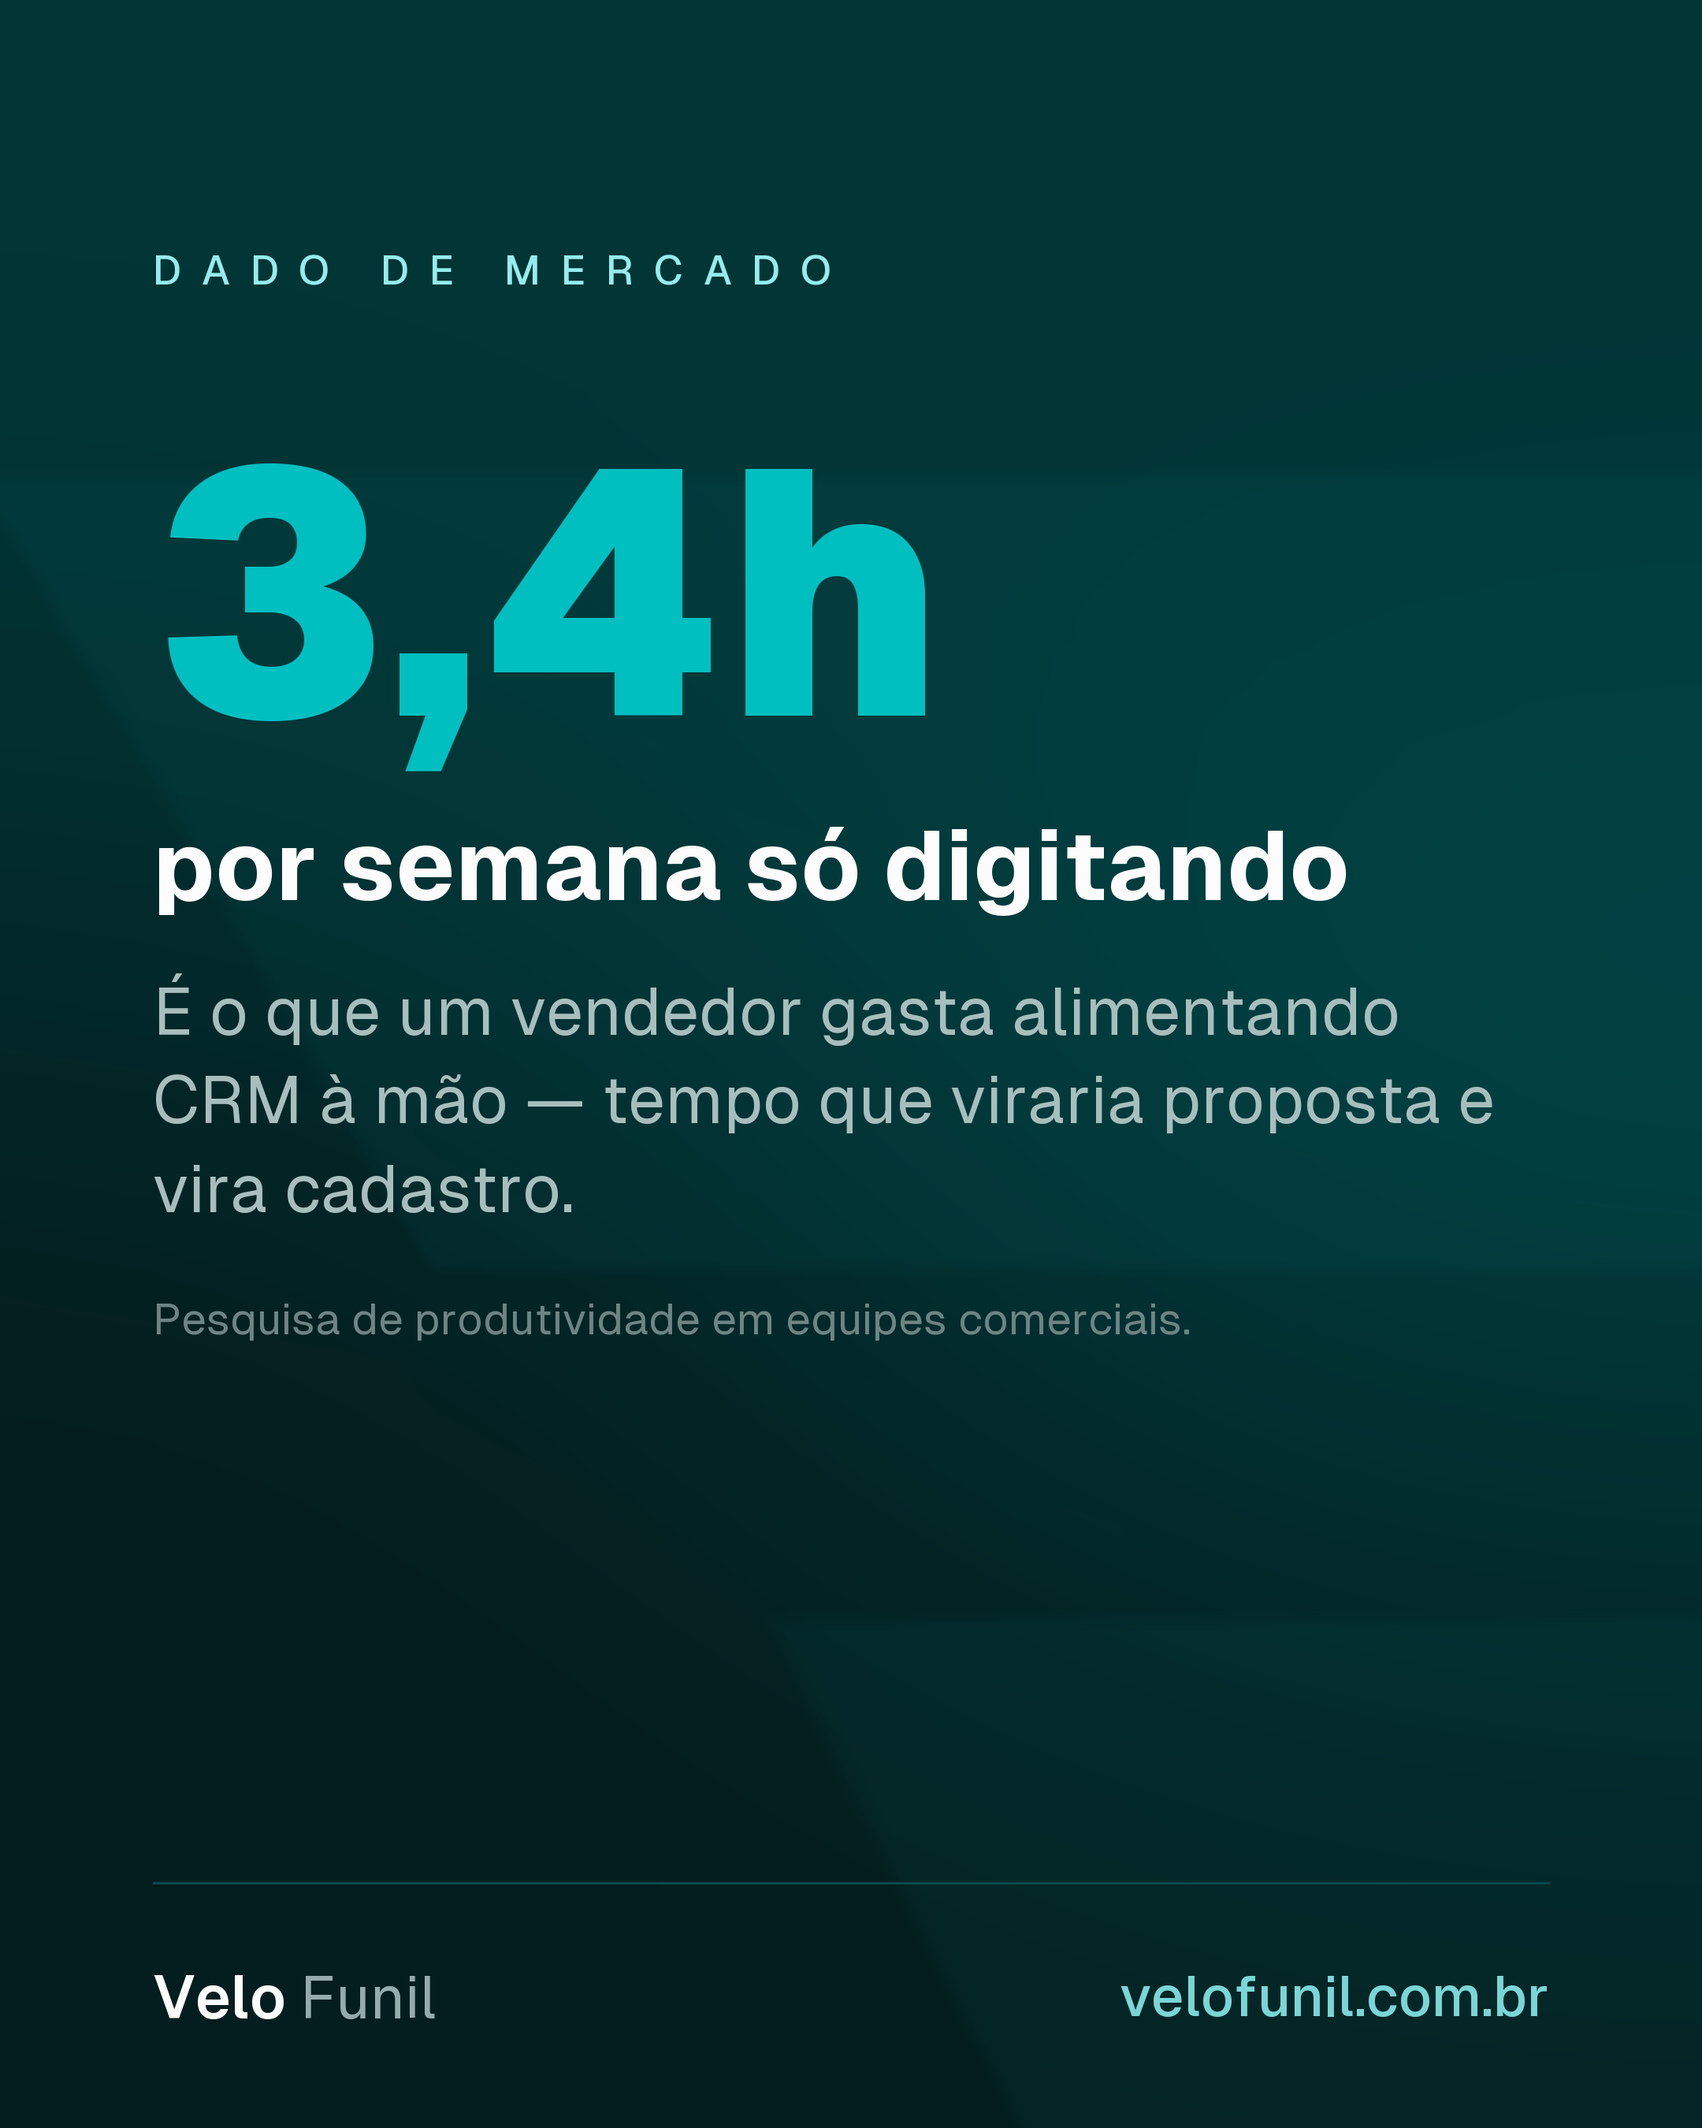
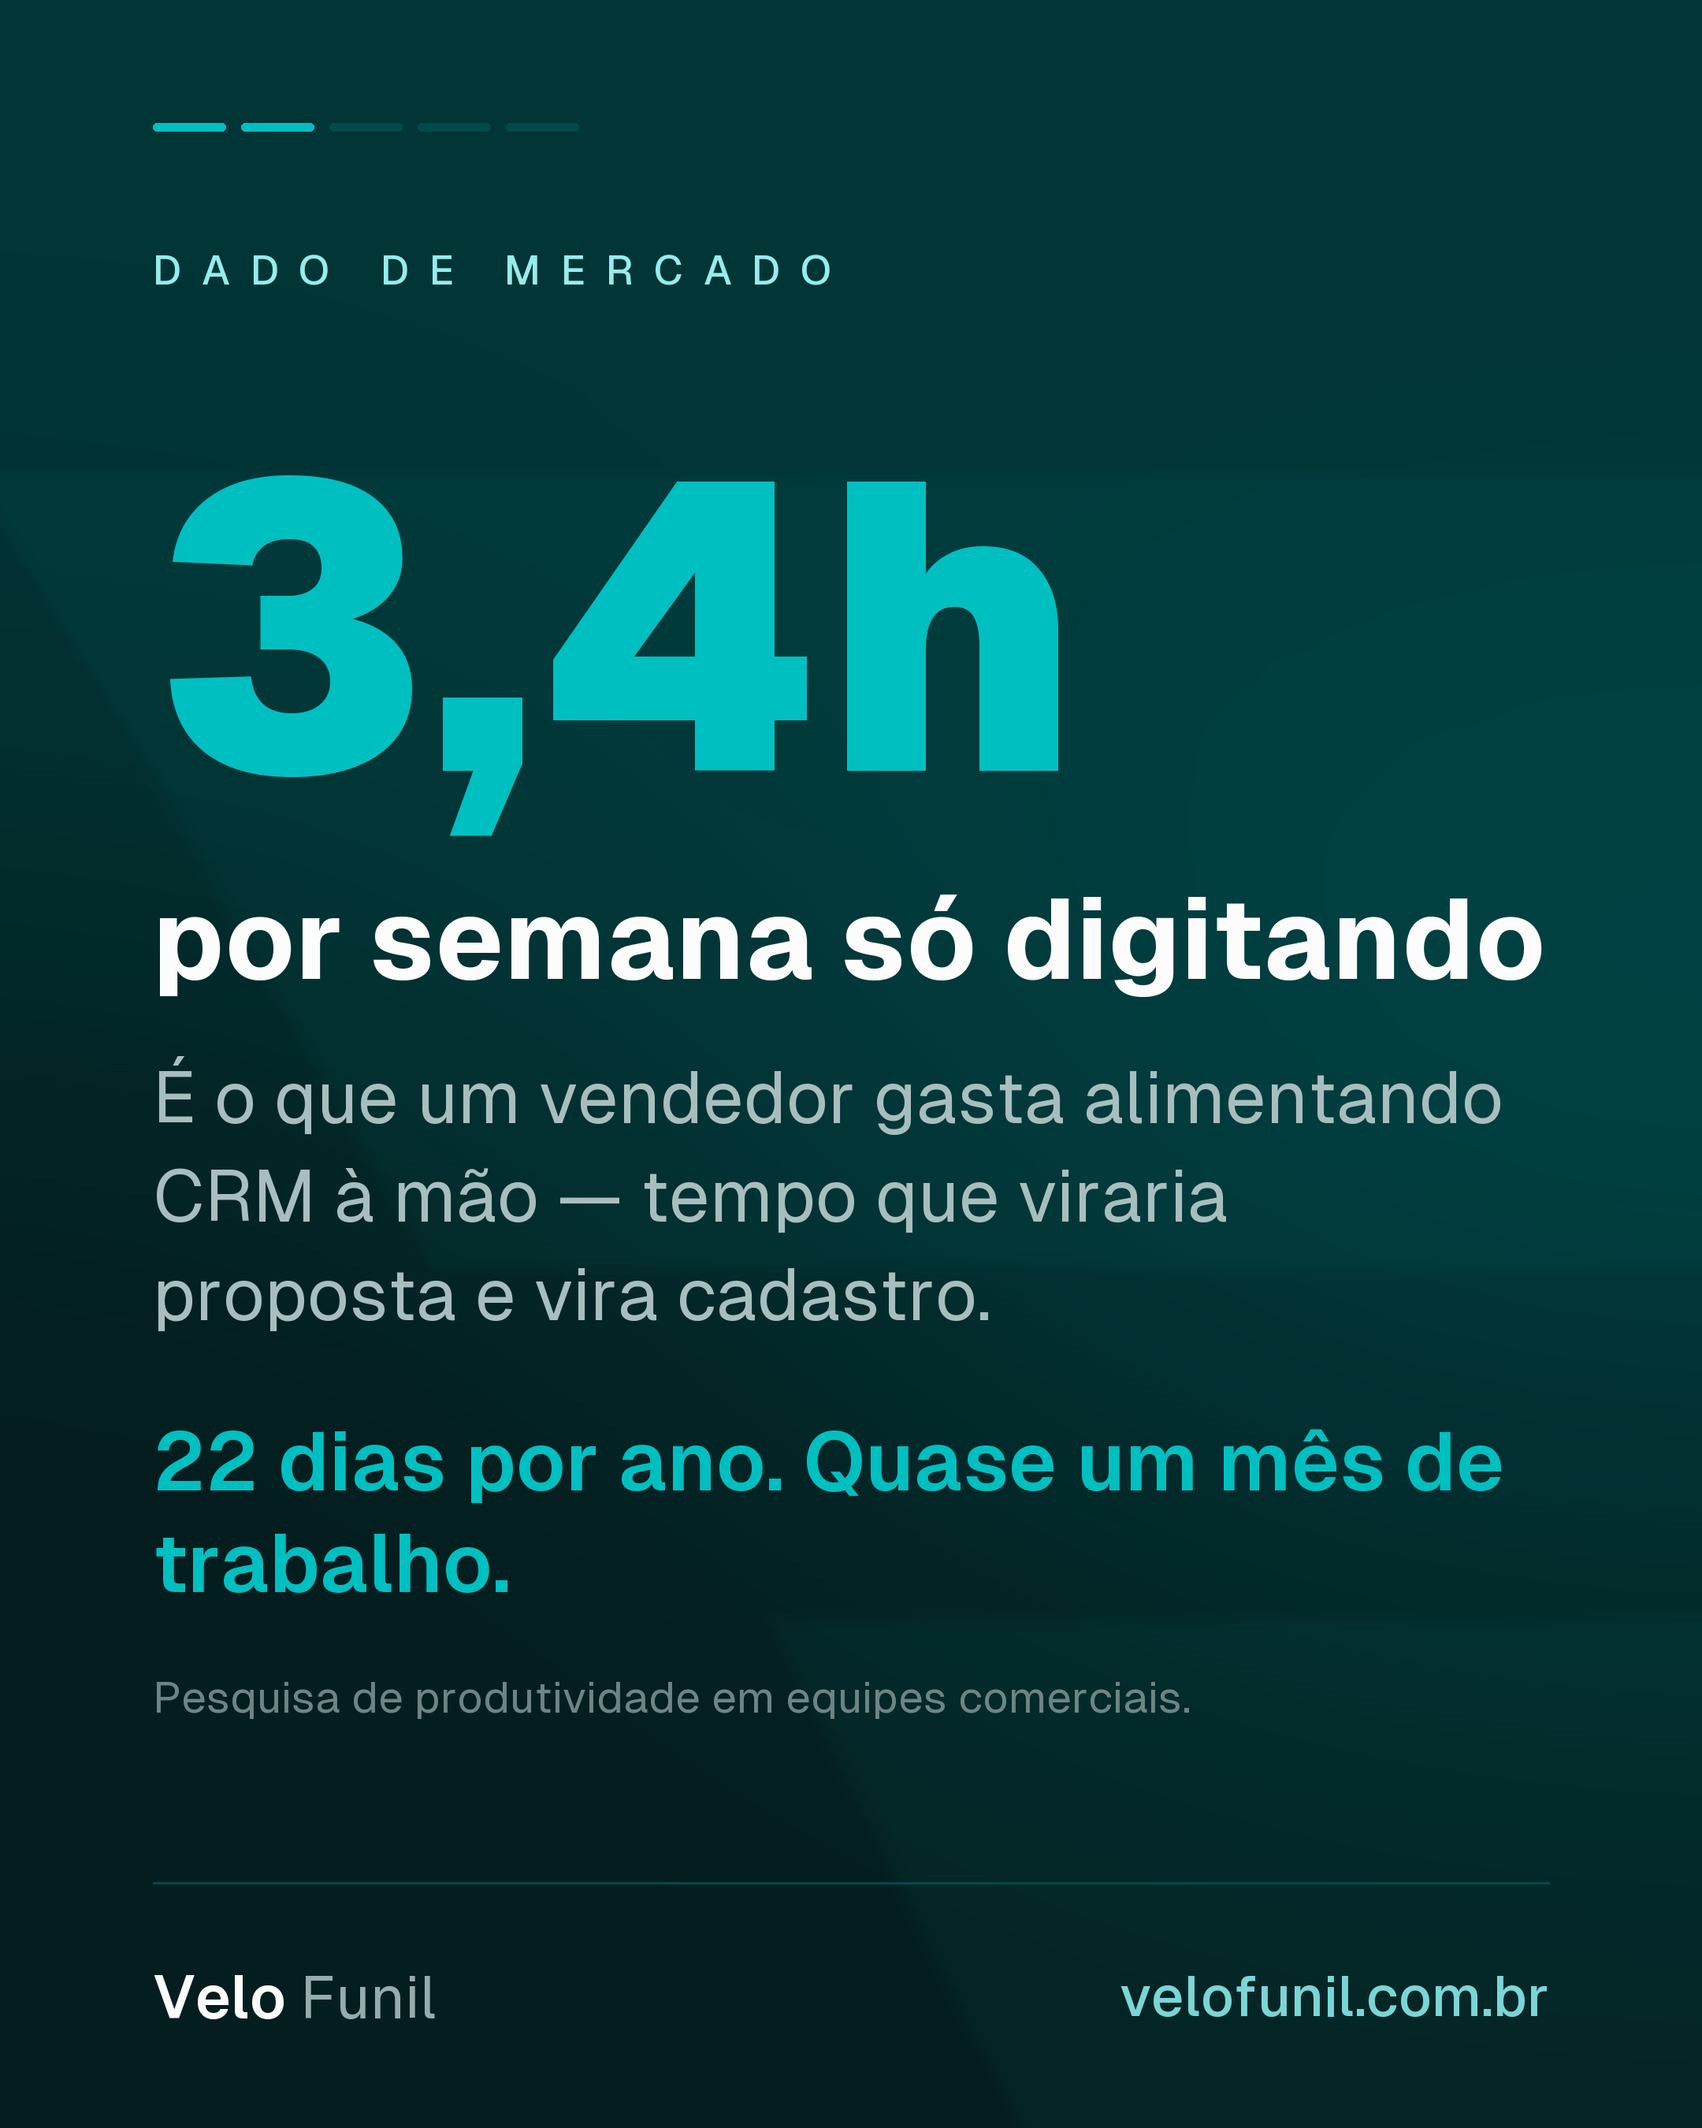
feat(marketing): o carrossel deixa de ser cinco vezes o mesmo card
Reportado como genérico, e era. Auditado com a skill de design do projeto e
com medição das artes prontas.

## O diagnóstico

    os 5 cards    estrutura IDENTICA — numero, titulo, texto, rodape
    "55%"         escrito, e nada MOSTRAVA o que era 55%
    sem progresso o leitor nao sabia se faltava 1 card ou 4
    ~35% vazio    todo o conteudo no terco superior

Competente e monótono. A skill nomeia o padrão certo — storytelling em
capítulos — e capítulos idênticos não contam história.

## O que entrou

**Marcador de passo**, traços no topo. Carrossel sem isso é leitura no escuro:
a decisão de continuar deslizando é tomada sem saber quanto falta. Traço e não
ponto porque traço tem direção, e direção comunica "isto avança".

**Barra de proporção** no card de 55%. Número escrito é símbolo — o olho lê e
segue. Barra em que mais da metade está acesa faz VER a proporção antes de ler
qualquer palavra. Barra e não pizza: é o que a skill recomenda para
part-to-whole, e num criativo lido em dois segundos o comprimento é a única
grandeza que se entende sem legenda.

**Escala tipográfica maior.** Conteúdo passou de ~65% para 89% da altura.

## O erro que a medição pegou, e é o mais instrutivo

A barra entrou primeiro TAMBÉM no card de 3,4h, ancorada numa semana de 40h.
Aberta a arte e olhada: 8,5% desenha uma barra quase vazia, e o olho conclui
"é pouco" — o contrário exato do que a frase diz.

Proporção só é argumento quando a parte é grande diante do todo. Ali o
[…]

diff --git a/scripts/marketing/gerar-feed.py b/scripts/marketing/gerar-feed.py
@@ -211,7 +211,82 @@ def arte_declaracao(categoria, titulo, corpo, arquivo, luz, remate=None):
 # rodapé, e não apenas o último.
 
 
-def _peca(luz, escuro_extra, bloco):
+def barra_de_proporcao(draw, y, parte, total, rotulo_parte, rotulo_resto, largura=None):
+    """
+    Mostra o dado em vez de só escrevê-lo.
+
+    ## Por que uma barra, e não pizza
+
+    A skill de design deste projeto é explícita: para part-to-whole, barra
+    empilhada com legenda; pizza é ruim de acessibilidade e pior de comparar.
+    Aqui o argumento é ainda mais simples — num criativo lido em dois segundos,
+    a barra é a única forma que se entende sem legenda, porque o comprimento é
+    a grandeza.
+
+    ## O que ela resolve
+
+    "55%" escrito é um símbolo: o olho lê o número e segue. Uma barra em que
+    mais da metade está acesa faz o leitor VER a proporção antes de ler
+    qualquer palavra — e é isso que separa um dado de uma afirmação.
+
+    O trecho apagado usa a cor de borda do sistema em vez de um cinza novo: o
+    resto não é "vazio", é a parte que não aconteceu, e precisa existir na
+    composição para o cheio significar alguma coisa.
+    """
+    if largura is None:
+        largura = g.LARGURA_TEXTO
+
+    altura = 22 * g.ESCALA
+    raio = altura // 2
+    fim_parte = g.MARGEM_ESQ + int(largura * parte / total)
+
+    # O trilho inteiro primeiro, depois a parte acesa por cima: desenhar dois
+    # retângulos lado a lado deixaria uma junta visível no arredondamento.
+    draw.rounded_rectangle(
+        [g.MARGEM_ESQ, y, g.MARGEM_ESQ + largura, y + altura],
+        radius=raio, fill=(0, 74, 76),
+    )
+    draw.rounded_rectangle(
+        [g.MARGEM_ESQ, y, fim_parte, y + altura], radius=raio, fill=g.TEAL,
+    )
+
+    y += altura + 20 * g.ESCALA
+    fnt = g.fonte(g.CORPO, 30)
+
+    draw.text((g.MARGEM_ESQ, y), rotulo_parte, font=fnt, fill=g.TEAL)
+    largura_resto = draw.textlength(rotulo_resto, font=fnt)
+    draw.text((g.MARGEM_ESQ + largura - largura_resto, y), rotulo_resto,
+              font=fnt, fill=(110, 132, 132))
+
+    return y + fnt.size * 1.3
+
+
+def marcador_de_passo(draw, atual, total):
+    """
+    Onde a pessoa está na sequência, no topo.
+
+    Carrossel sem isso é leitura no escuro: não se sabe se falta um card ou
+    quatro, e a decisão de continuar deslizando é tomada sem informação. Os
+    pontinhos nativos do Instagram ficam FORA da arte, minúsculos e no rodapé
+    da tela — servem ao aplicativo, não à peça.
+
+    Traços e não pontos: traço tem direção, e direção é o que comunica "isto
+    avança". Ponto comunica lista, que é outra coisa.
+    """
+    largura, altura, folga = 46 * g.ESCALA, 5 * g.ESCALA, 10 * g.ESCALA
+    y = int(g.H * 0.058)
+    x = g.MARGEM_ESQ
+
+    for i in range(1, total + 1):
+        aceso = i <= atual
+        draw.rounded_rectangle(
+            [x, y, x + largura, y + altura], radius=altura // 2,
+            fill=g.TEAL if aceso else (0, 74, 76),
+        )
+        x += largura + folga
+
+
+def _peca(luz, escuro_extra, bloco, passo=None):
     """
     Fundo, posicionamento, assinatura. O miolo vem de fora.
 
@@ -239,12 +314,14 @@ def _peca(luz, escuro_extra, bloco):
     img = g.fundo_marca(escuro_extra=escuro_extra)
     draw = ImageDraw.Draw(img)
     topo, _base = g.faixa_livre()
+    if passo:
+        marcador_de_passo(draw, *passo)
     bloco(draw, topo)
     g.assinar_discreto(img, draw)
     return img
 
 
-def card_gancho(partes, apoio, luz):
+def card_gancho(partes, apoio, luz, passo=None):
     """
     O primeiro card: uma pergunta, com a palavra que dói em itálico serifado.
 
@@ -261,39 +338,53 @@ def card_gancho(partes, apoio, luz):
     """
     def bloco(d, y):
         y = g.escrever_com_realce(
-            d, partes, g.fonte(g.TITULO, 84), g.italica(96),
+            d, partes, g.fonte(g.TITULO, 94), g.italica(108),
             y, g.BRANCO, g.TEAL, entrelinha=1.18,
         )
         if apoio:
             y += 40 * g.ESCALA
-            y = g.escrever_esq(d, apoio, g.fonte(g.CORPO, 44), y, (168, 190, 190),
-                               entrelinha=1.34)
+            y = g.escrever_esq(d, apoio, g.fonte(g.CORPO, 48), y, (168, 190, 190),
+                               entrelinha=1.36)
         return y
 
-    return _peca(luz, 0.12, bloco)
+    return _peca(luz, 0.12, bloco, passo)
 
 
-def card_dado(numero, unidade, explicacao, fonte_dado, categoria, luz):
+def card_dado(numero, unidade, explicacao, fonte_dado, categoria, luz, passo=None,
+              proporcao=None, remate=None):
     """O card de prova. Mesmo esqueleto de `arte_numero`, sem salvar."""
-    fnt_num = g.fonte(g.DISPLAY, 220)
+    fnt_num = g.fonte(g.DISPLAY, 258)
 
     def bloco(d, y):
         y = capsula_vazia(d, categoria, y) + 50 * g.ESCALA
         d.text((g.MARGEM_ESQ, y), numero, font=fnt_num, fill=g.TEAL)
         _, _, _, fim = d.textbbox((g.MARGEM_ESQ, y), numero, font=fnt_num)
         y = fim + 24 * g.ESCALA
-        y = g.escrever_esq(d, unidade, g.fonte(g.TITULO, 62), y, g.BRANCO)
+        y = g.escrever_esq(d, unidade, g.fonte(g.TITULO, 72), y, g.BRANCO)
         y += 32 * g.ESCALA
-        y = g.escrever_esq(d, explicacao, g.fonte(g.CORPO, 42), y, (168, 190, 190),
-                           entrelinha=1.34)
+        y = g.escrever_esq(d, explicacao, g.fonte(g.CORPO, 46), y, (168, 190, 190),
+                           entrelinha=1.36)
+        # A barra entra ENTRE a explicação e a fonte, não no fim: ela é parte
+        # do argumento, e a fonte é o rodapé dele. Invertido, o crédito
+        # separaria o dado da sua própria ilustração.
+        if proporcao:
+            y += 40 * g.ESCALA
+            y = barra_de_proporcao(d, y, *proporcao)
+        # O remate é a conclusão que o número não diz sozinho. Em teal e peso
+        # forte porque é a frase que a pessoa deve levar embora — o dado é a
+        # prova, isto é o argumento.
+        if remate:
+            y += 40 * g.ESCALA
+            y = g.escrever_esq(d, remate, g.fonte(g.FORTE, 52), y, g.TEAL,
+                               entrelinha=1.24)
         y += 34 * g.ESCALA
         return g.escrever_esq(d, fonte_dado, g.fonte(g.CORPO, 28), y, (110, 132, 132),
                               entrelinha=1.26)
 
-    return _peca(luz, 0.15, bloco)
+    return _peca(luz, 0.15, bloco, passo)
 
 
-def card_causa(titulo, corpo, luz):
+def card_causa(titulo, corpo, luz, passo=None):
     """
     O card que explica. Só tipografia, corpo grande.
 
@@ -301,15 +392,15 @@ def card_causa(titulo, corpo, luz):
     prova, é conclusão.
     """
     def bloco(d, y):
-        y = g.escrever_esq(d, titulo, g.fonte(g.TITULO, 76), y, g.BRANCO, entrelinha=1.18)
+        y = g.escrever_esq(d, titulo, g.fonte(g.TITULO, 86), y, g.BRANCO, entrelinha=1.18)
         y += 32 * g.ESCALA
-        return g.escrever_esq(d, corpo, g.fonte(g.CORPO, 44), y, (168, 190, 190),
-                              entrelinha=1.34)
+        return g.escrever_esq(d, corpo, g.fonte(g.CORPO, 48), y, (168, 190, 190),
+                              entrelinha=1.38)
 
-    return _peca(luz, 0.10, bloco)
+    return _peca(luz, 0.10, bloco, passo)
 
 
-def card_cta(chamada, apoio, luz):
+def card_cta(chamada, apoio, luz, passo=None):
     """
     O último card: o que fazer, e onde.
 
@@ -321,16 +412,16 @@ def card_cta(chamada, apoio, luz):
     "Link na bio" logo abaixo porque o botão não é clicável, e o Instagram não
     dá link em post de feed. Sem essa linha, a peça pede uma ação impossível.
     """
-    fnt_ch = g.fonte(g.TITULO, 76)
+    fnt_ch = g.fonte(g.TITULO, 86)
     fnt_bt = g.fonte(g.FORTE, 44)
     rotulo = "Comece grátis"
 
     def bloco(d, y):
         y = g.escrever_esq(d, chamada, fnt_ch, y, g.BRANCO, entrelinha=1.18)
         y += 30 * g.ESCALA
-        y = g.escrever_esq(d, apoio, g.fonte(g.CORPO, 44), y, (168, 190, 190),
-                           entrelinha=1.34)
-        y += 56 * g.ESCALA
+        y = g.escrever_esq(d, apoio, g.fonte(g.CORPO, 48), y, (168, 190, 190),
+                           entrelinha=1.36)
+        y += 64 * g.ESCALA
 
         pad_x, pad_y = 52 * g.ESCALA, 30 * g.ESCALA
         larg = d.textlength(rotulo, font=fnt_bt) + pad_x * 2
@@ -344,7 +435,7 @@ def card_cta(chamada, apoio, luz):
         return g.escrever_esq(d, "Link na bio", g.fonte(g.CORPO, 34), y,
                               (122, 214, 214))
 
-    return _peca(luz, 0.18, bloco)
+    return _peca(luz, 0.18, bloco, passo)
 
 
 def carrossel(nome, cards):
@@ -485,34 +576,47 @@ def main():
             [("Você comprou um CRM. Quem ", False), ("alimenta", True),
              (" ele?", False)],
             "Ninguém vende a parte chata na hora da contratação.",
-            luz=0.16,
+            luz=0.16, passo=(1, 5),
         ),
         card_dado(
             "3,4h", "por semana só digitando",
             "É o que um vendedor gasta alimentando CRM à mão — tempo que "
             "viraria proposta e vira cadastro.",
             "Pesquisa de produtividade em equipes comerciais.",
-            "D A D O   D E   M E R C A D O", luz=0.28,
+            "D A D O   D E   M E R C A D O", luz=0.28, passo=(2, 5),
+            # ## Por que este card NÃO leva barra de proporção
+            #
+            # A primeira versão tinha `proporcao=(3.4, 40, ...)`, ancorando as
+            # 3,4h numa semana de 40h. Aberta a arte e olhada: 8,5% desenha uma
+            # barra quase vazia, e o olho conclui "é pouco" — o contrário
+            # exato do que a frase diz.
+            #
+            # Proporção só é argumento quando a parte é grande em relação ao
+            # todo. Aqui o argumento é ACUMULAÇÃO: pouco por semana que vira
+            # muito no ano. Isso é uma frase, não uma barra — e é o que o
+            # remate faz.
+            remate="22 dias por ano. Quase um mês de trabalho.",
         ),
         card_dado(
             "55%", "das implantações falham",
             "E 60% disso é adoção, não plataforma. O problema quase nunca é o "
             "sistema que foi escolhido.",
             "Levantamentos publicados sobre implantação de CRM.",
-            "D A D O   D E   M E R C A D O", luz=0.36,
+            "D A D O   D E   M E R C A D O", luz=0.36, passo=(3, 5),
+            proporcao=(55, 100, "55% falham", "45% vingam"),
         ),
         card_causa(
             "O sistema funciona. Quem desiste é a pessoa.",
             "Toda ferramenta cobra um pedágio de digitação antes de devolver "
             "qualquer coisa. Quem paga esse pedágio todo dia é quem deveria "
             "estar vendendo — e na terceira semana ele para de pagar.",
-            luz=0.42,
+            luz=0.42, passo=(4, 5),
         ),
         card_cta(
             "Um funil que cabe num dia de trabalho.",
             "Grátis até 50 contatos, sem cartão. R$ 49 por mês pela empresa "
             "inteira quando precisar de mais — não por vendedor.",
-            luz=0.46,
+            luz=0.46, passo=(5, 5),
         ),
     ])
 
